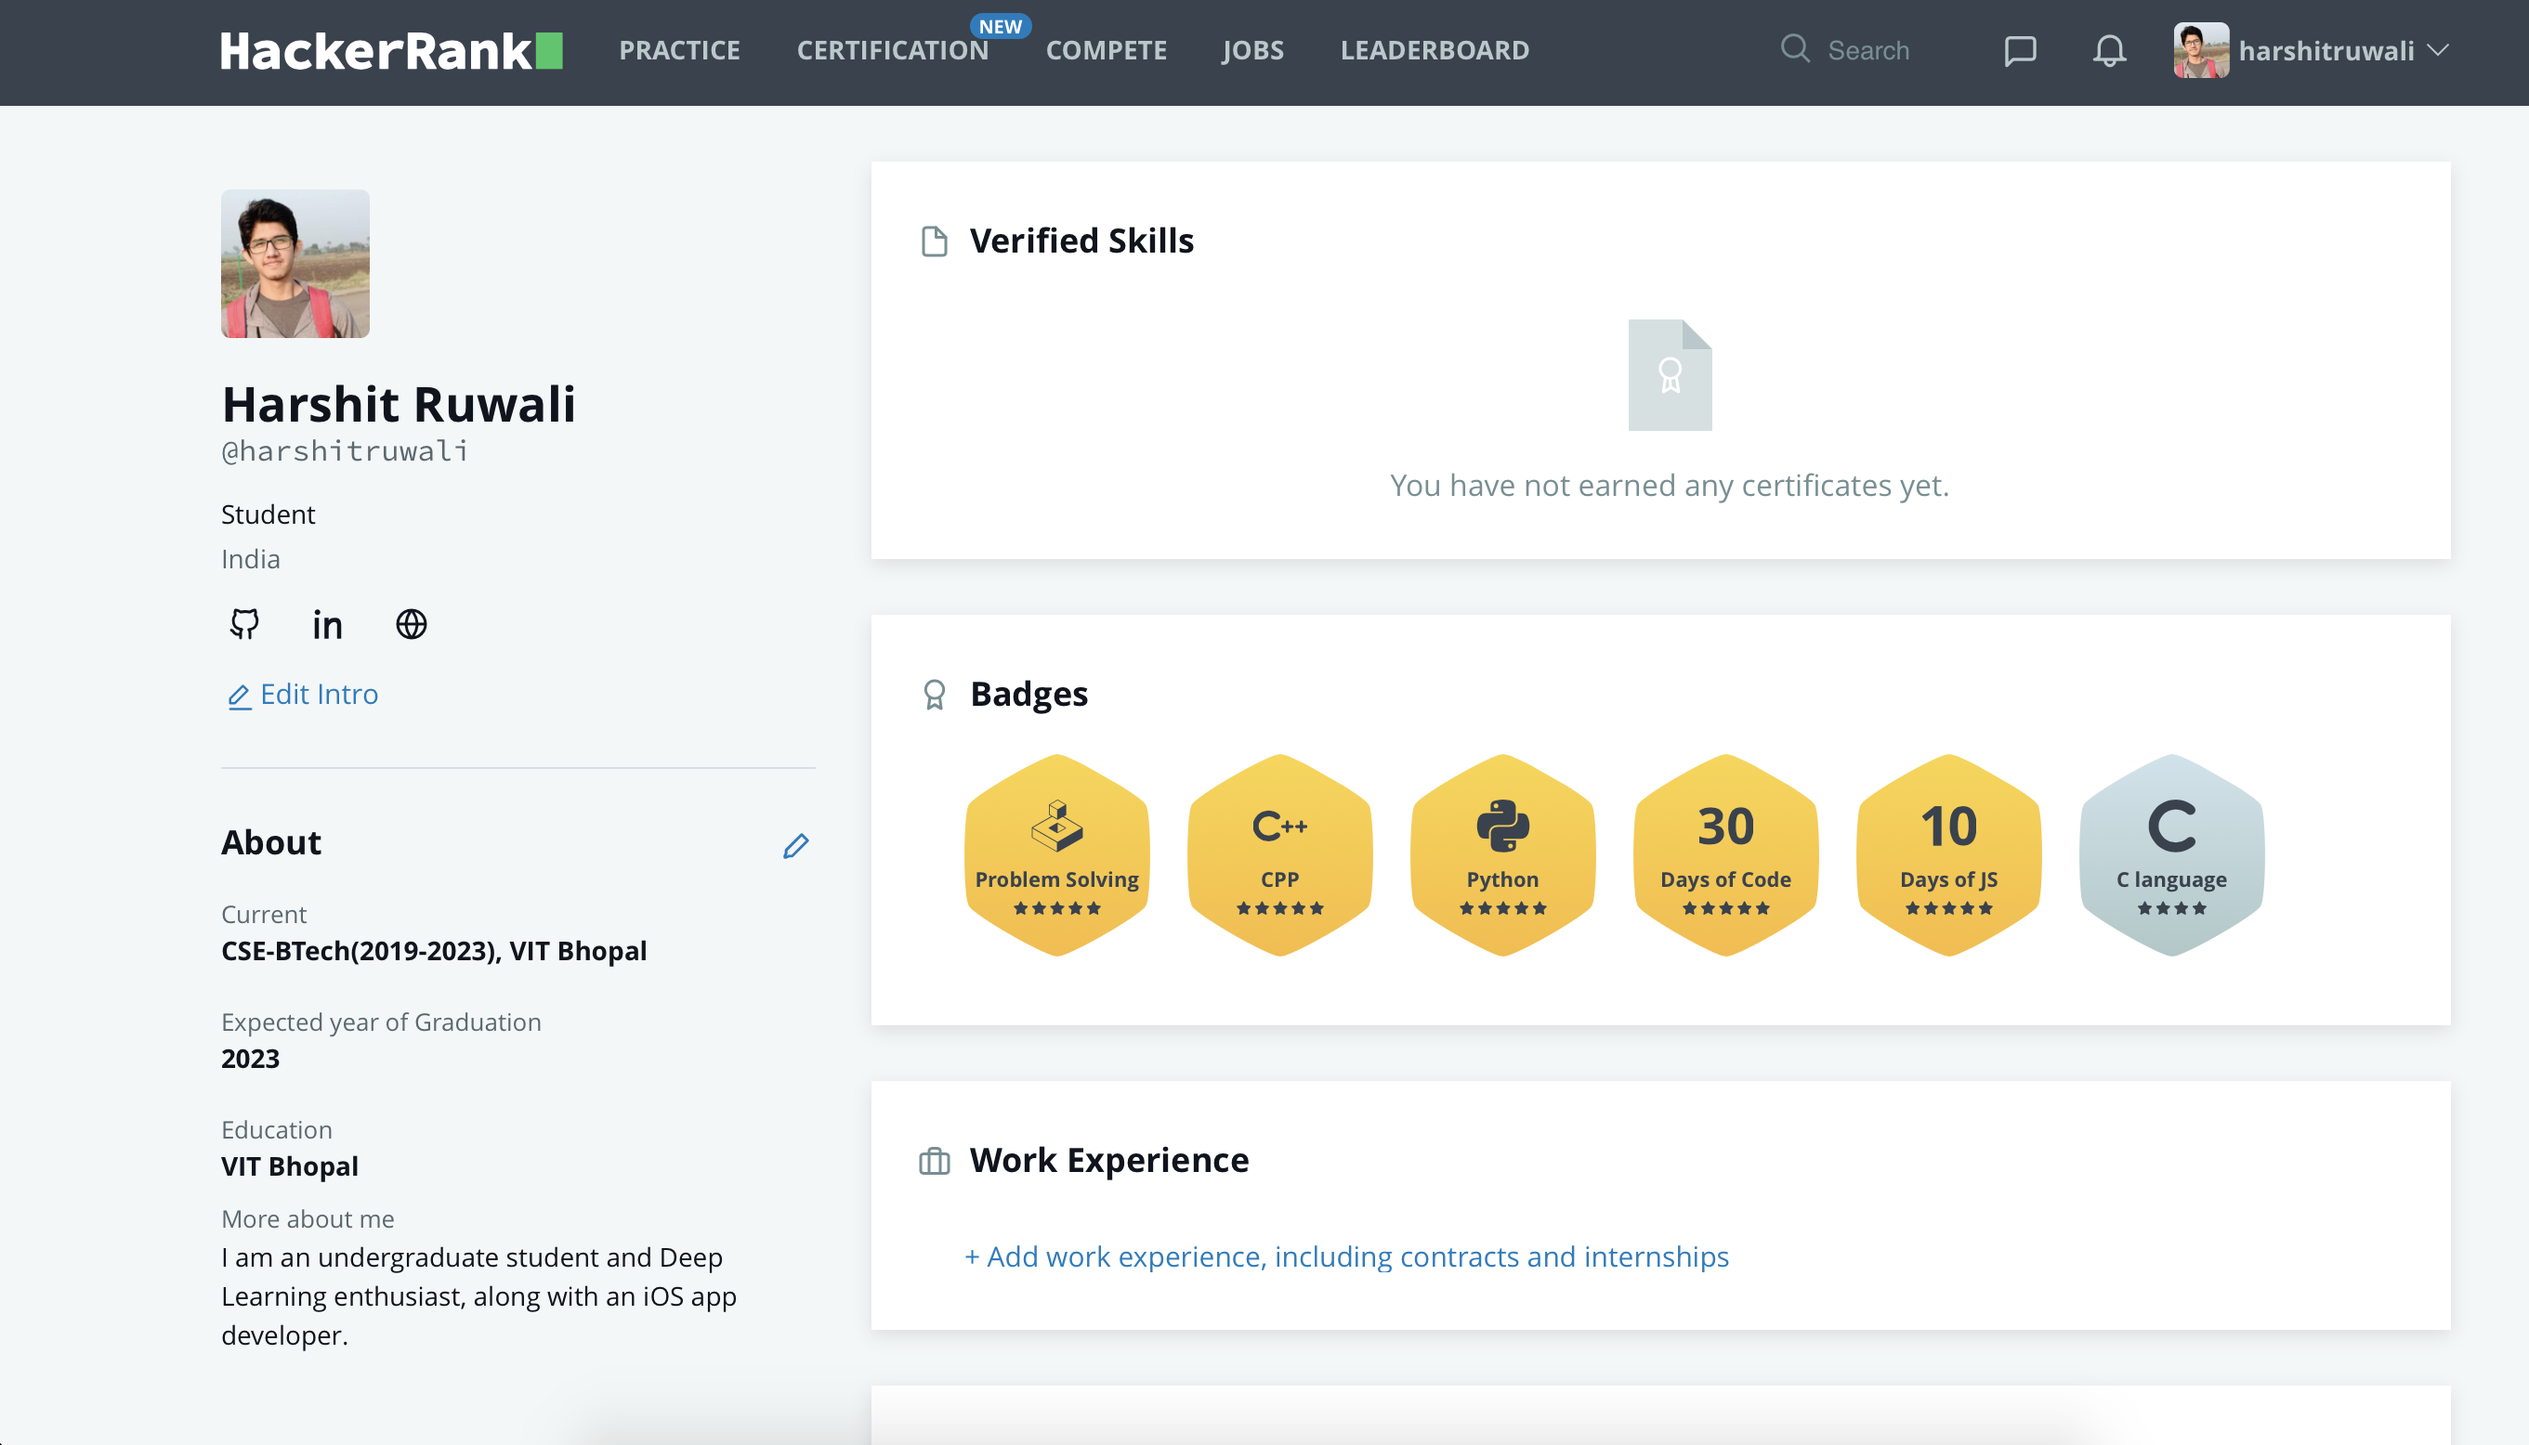
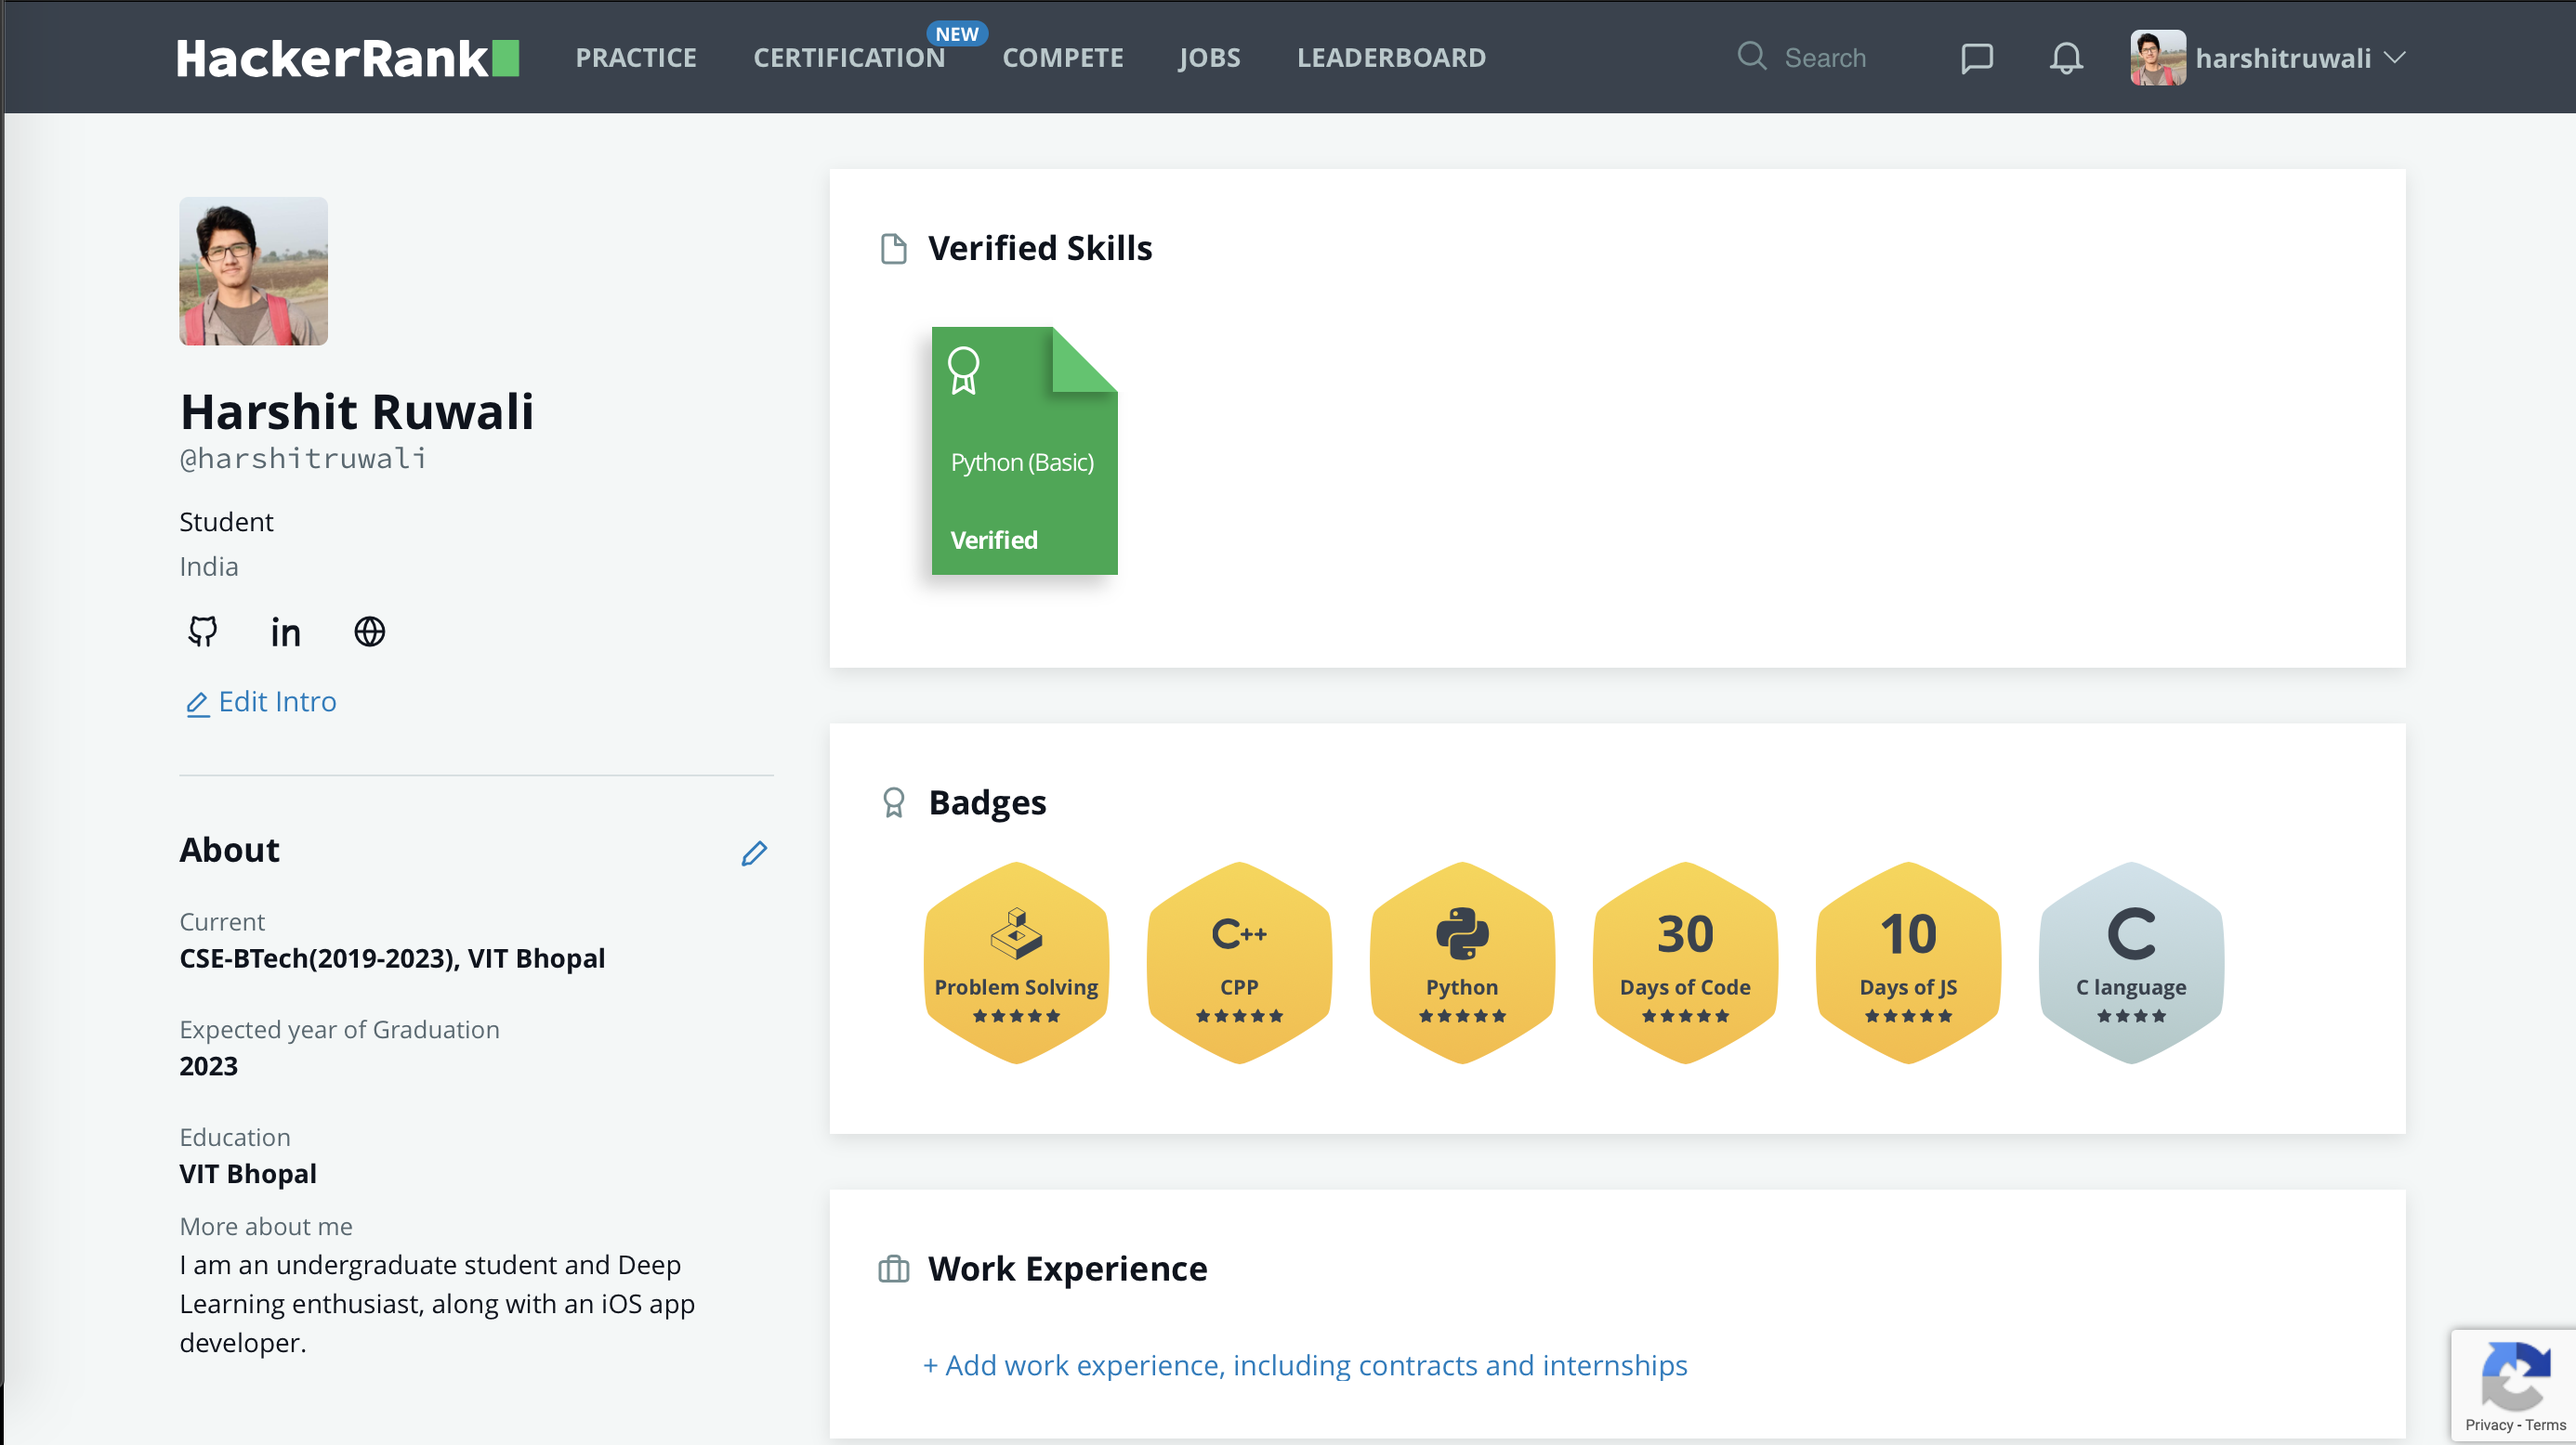
Adding Python Skill test solutions

diff --git a/Python-Skill Test/Python: Reverse Word And Swap Case.py b/Python-Skill Test/Python: Reverse Word And Swap Case.py
@@ -1,0 +1,37 @@
+#!/bin/python3
+
+import math
+import os
+import random
+import re
+import sys
+
+
+#
+# Complete the 'reverse_words_order_and_swap_cases' function below.
+#
+# The function is expected to return a STRING.
+# The function accepts STRING sentence as parameter.
+#
+
+def reverse_words_order_and_swap_cases(sentence):
+     words = sentence.split()
+
+     words = list(reversed(words))
+    
+     j = " ".join(words)
+
+     return j.swapcase()
+
+
+
+if __name__ == '__main__':
+    fptr = open(os.environ['OUTPUT_PATH'], 'w')
+
+    sentence = input()
+
+    result = reverse_words_order_and_swap_cases(sentence)
+
+    fptr.write(result + '\n')
+
+    fptr.close()

diff --git a/Python-Skill Test/Python- Average Function.py b/Python-Skill Test/Python- Average Function.py
@@ -1,0 +1,23 @@
+#!/bin/python3
+
+import math
+import os
+import random
+import re
+import sys
+
+
+# write your code here
+from statistics import mean
+
+def avg(*num):
+    return mean(num)
+if __name__ == '__main__':
+    fptr = open(os.environ['OUTPUT_PATH'], 'w')
+    
+    nums = list(map(int, input().split()))
+    res = avg(*nums)
+    
+    fptr.write('%.2f' % res + '\n')
+
+    fptr.close()

diff --git a/30 Days of Code/README.md b/30 Days of Code/README.md
@@ -1,0 +1,2 @@
+# HackerRank - 30 Days of Code
+Solutions to HackerRank 30 Days of Code practice problems.
